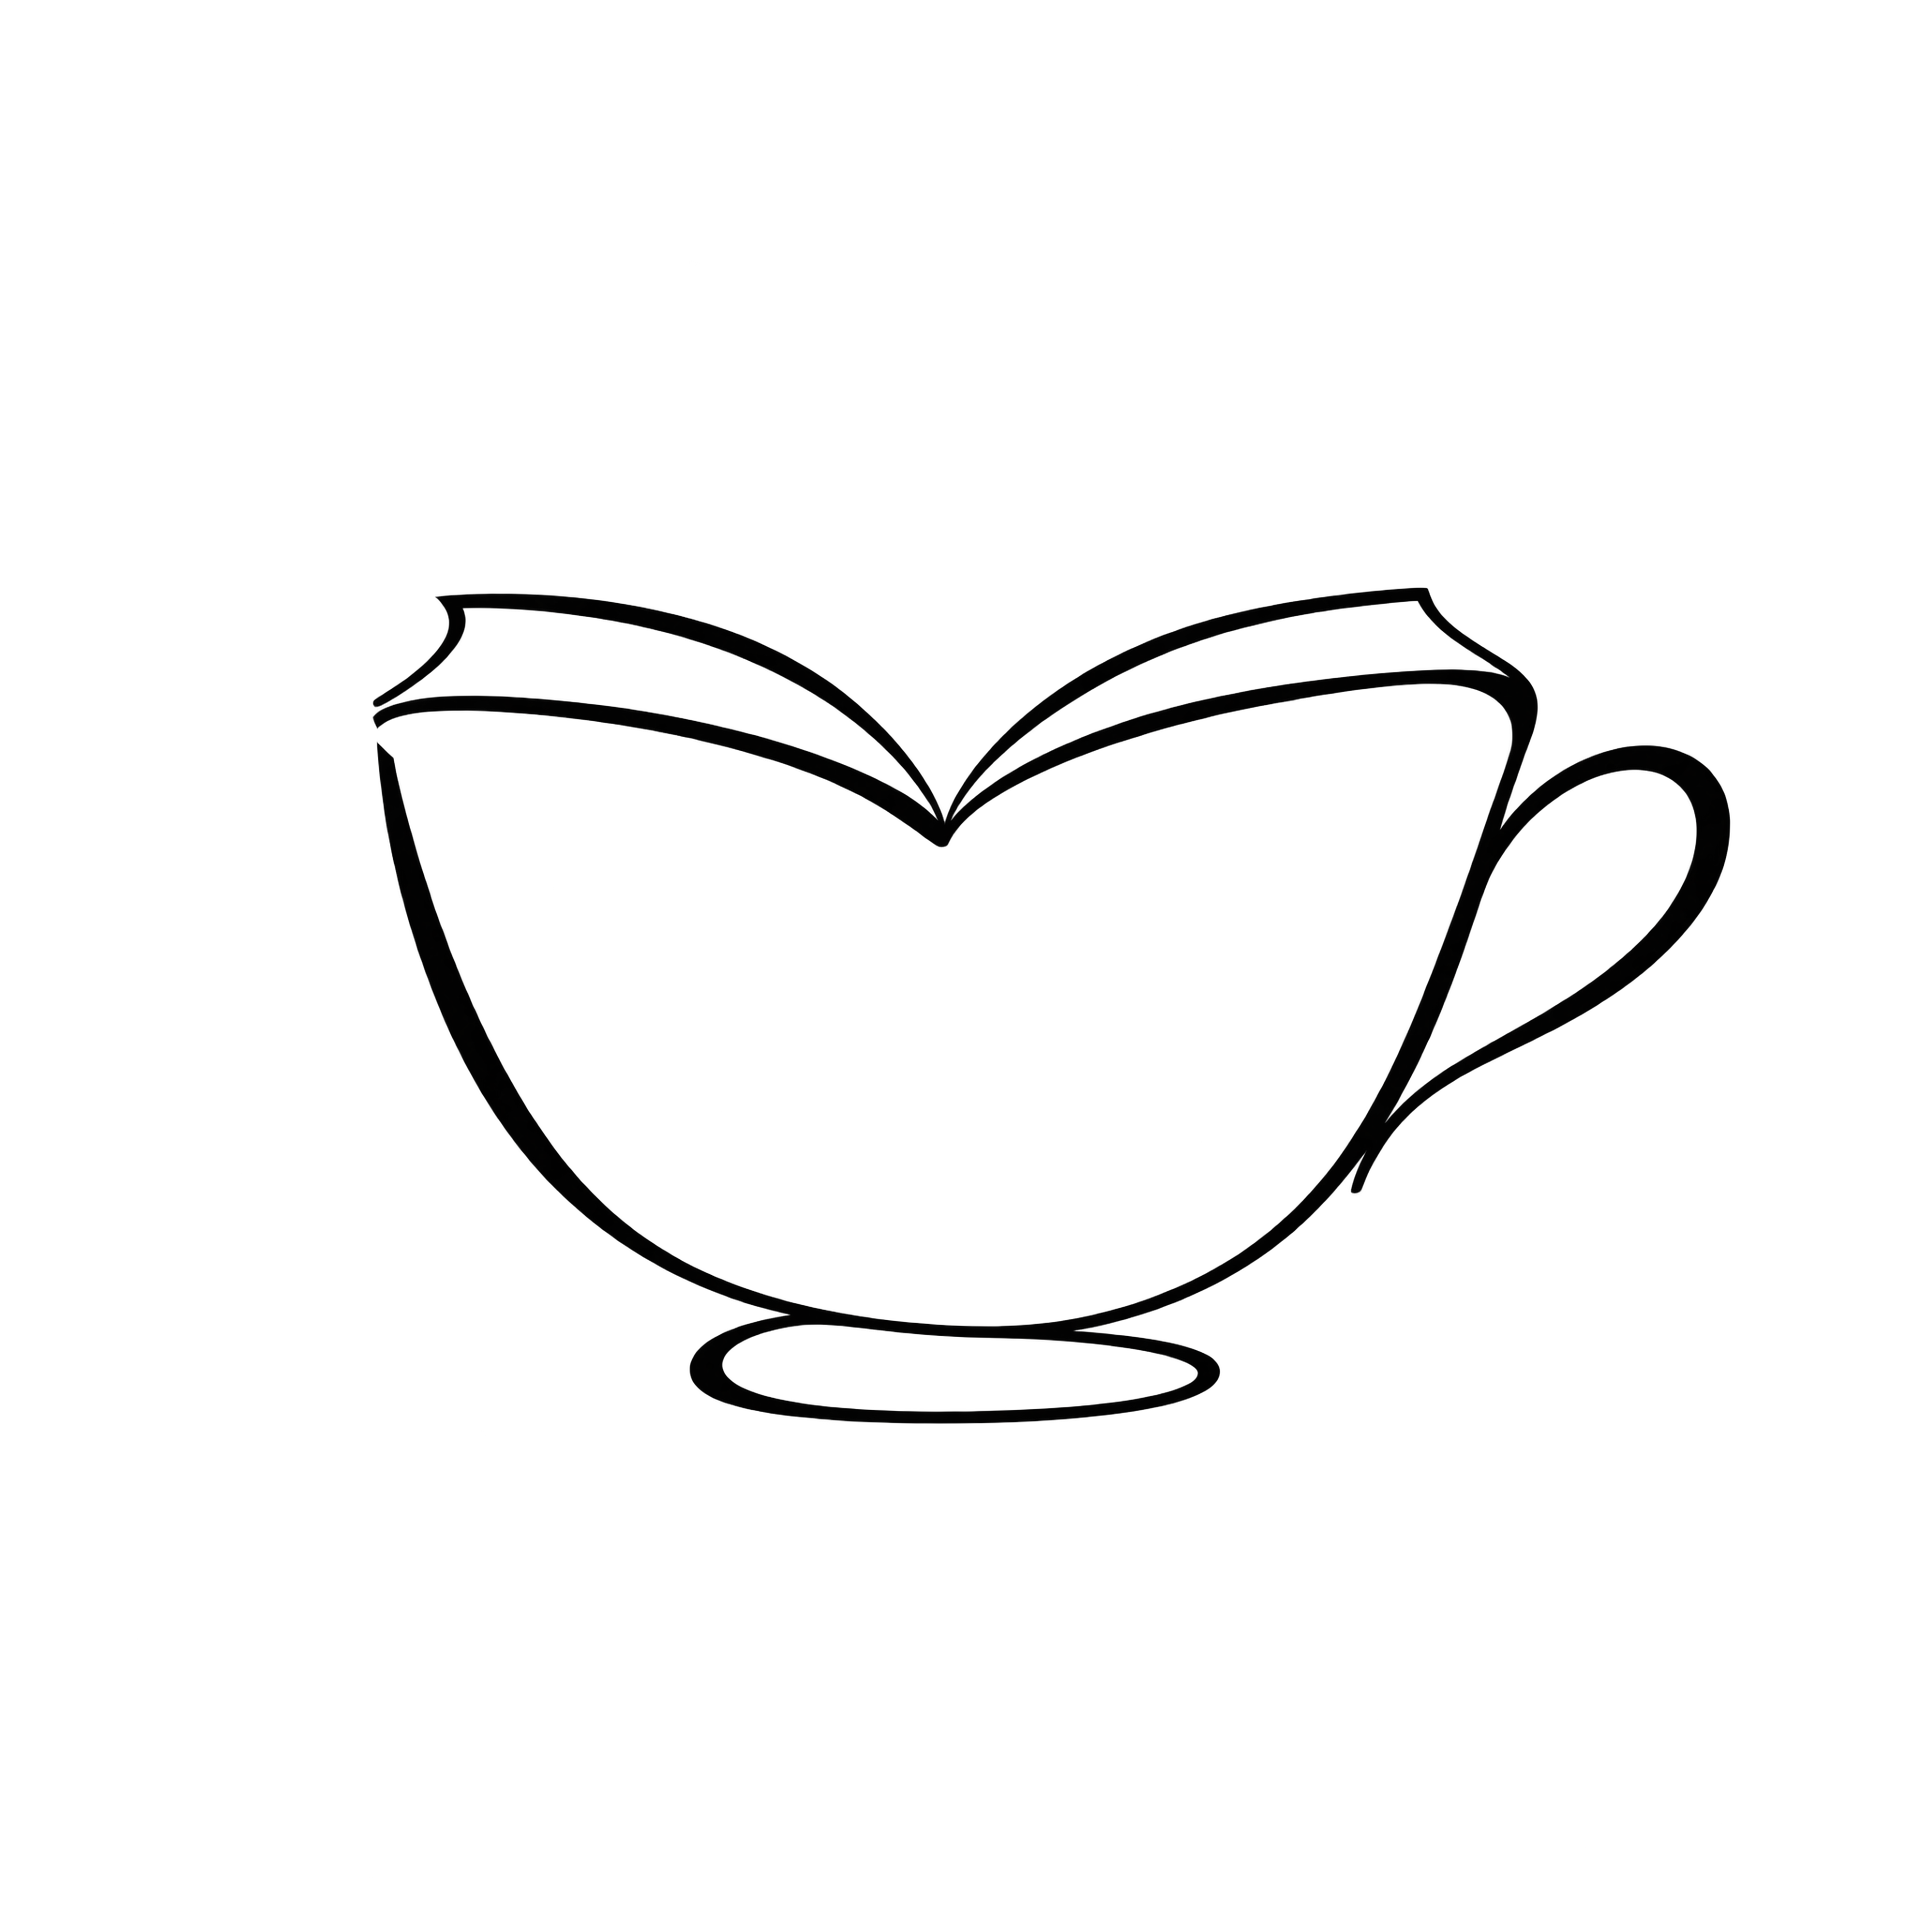
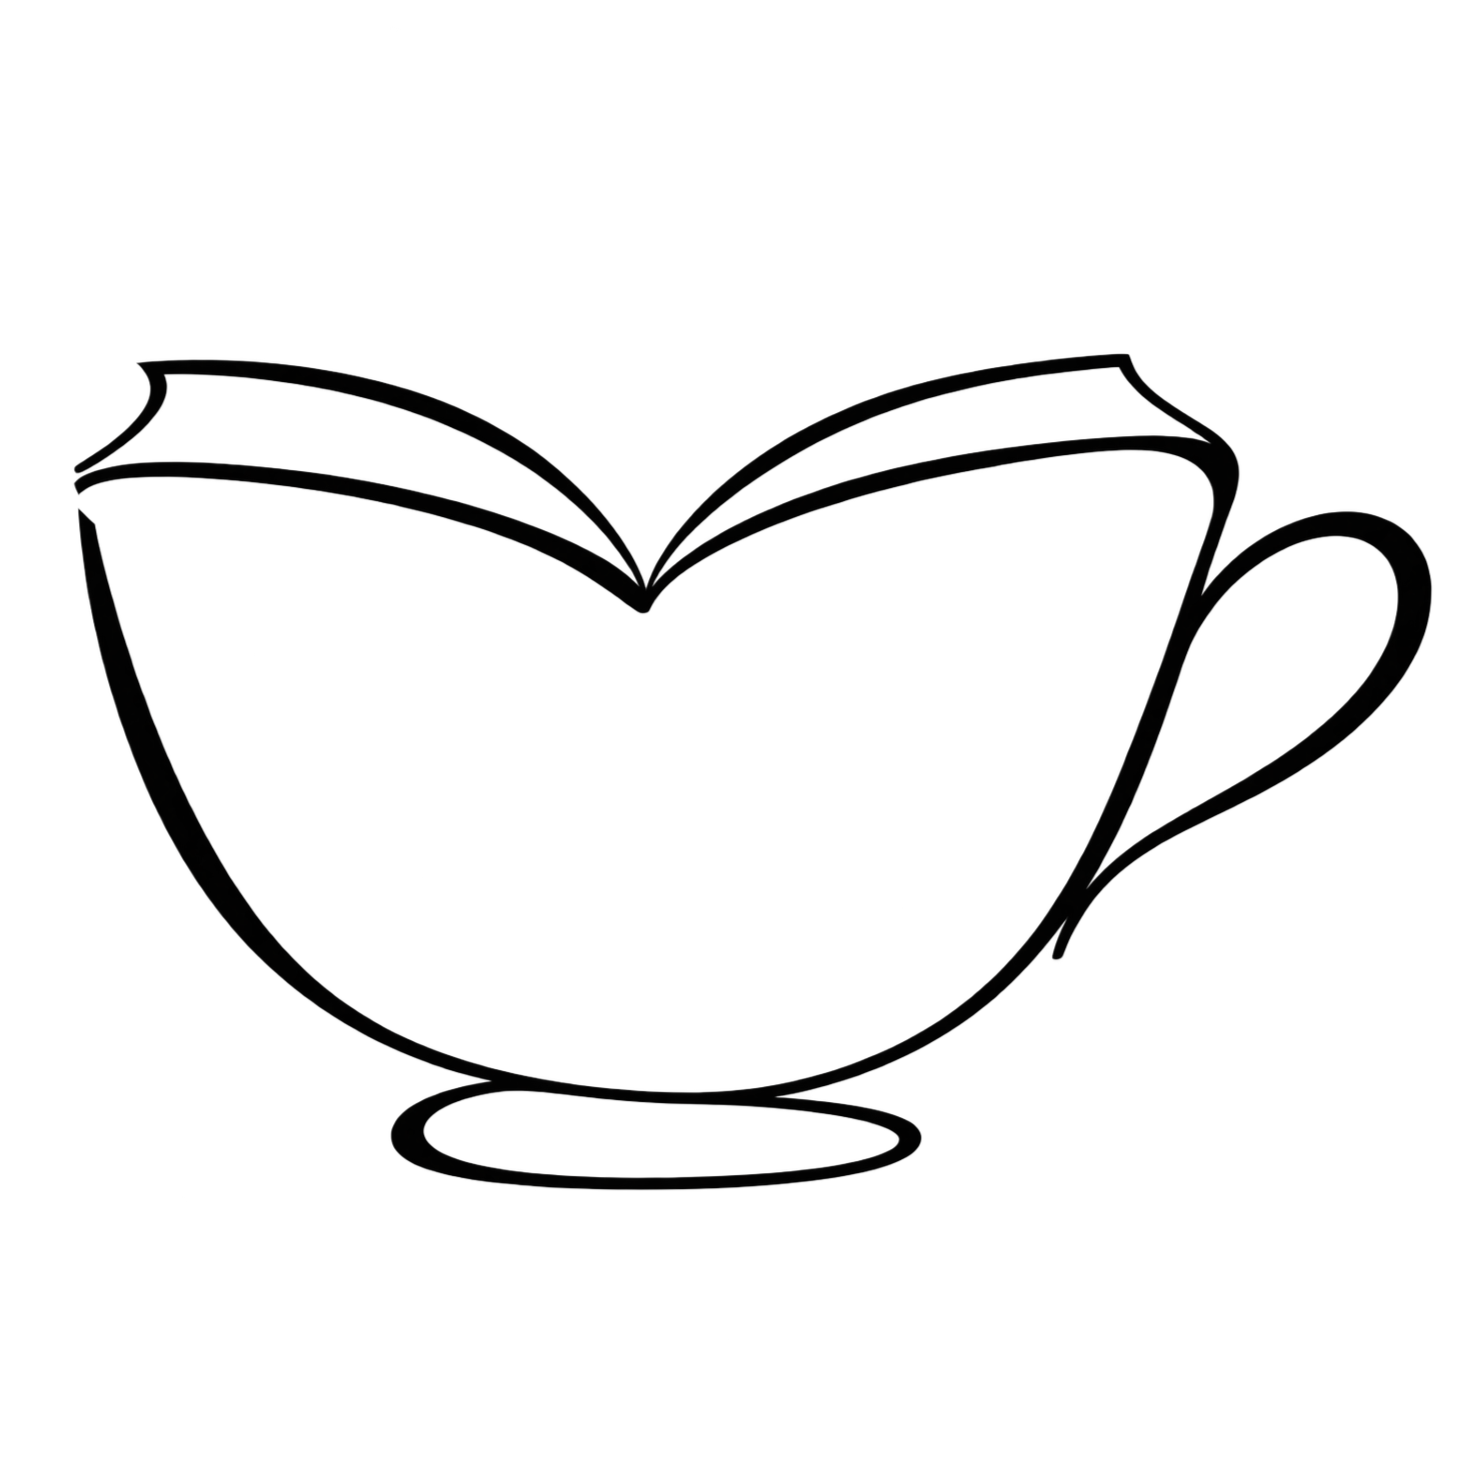
update home view

Changed region(s): [[0.0307, 0.2149, 0.9823, 0.8288]]

diff --git a/src/pages/CupStoriesHome.jsx b/src/pages/CupStoriesHome.jsx
@@ -1,8 +1,119 @@
+import { useState, useEffect } from 'react';
+import { Link } from 'react-router-dom';
+import axios from 'axios';
+import { useStory } from '../contexts/StoryContext';
+import Loader from '../components/Loader';
 
 export default function CupStoriesHome() {
+
+  const { loading, setLoading, error, setError } = useStory();
+  // const [randoRequested, setRandoRequested] = useState(false);
+  const [randoStory, setRandoStory] = useState('');
+  const endpoint = import.meta.env.VITE_API_BASE_URL;
+
+  function getRandoStory() {
+
+    setLoading(true);
+
+    axios.get(endpoint + '/stories/random')
+      .then((res) => {
+        setRandoStory(res.data.results);
+      })
+      .catch((err) => {
+        console.log(err.response);
+        const status = err.response?.status;
+
+        if (status === 404) {
+          setError('Story not found.');
+        } else if (status === 500) {
+          setError('Internal server error. Try again later.');
+        } else if (!err.response) {
+          console.log(err);
+          setError('Network error. Try again later.');
+        } else {
+          setError(err.response?.data.message || 'Sorry, something went wrong.');
+        }
+      })
+      .finally(() => {
+        setLoading(false);
+      })
+  }
+
+  useEffect(() => {
+    setRandoStory();
+    getRandoStory();
+  }, []);
+
   return (
     <>
-      home
+      <section id="home_hero my-5">
+        <div className="container p-4 my-3">
+          <div className="row justify-content-center align-items-center">
+            <img src="/cup-stories.png" alt="cup stories logo: a mix of an open book and a tea cup" className="home_hero_logo col-md-10 col-lg-4" />
+            <div className="home_hero_text col-sm-12 col-md-8">
+              <h2 className="title_font fs-1 mb-4">Welcome to Cup Stories</h2>
+              <p className="muted-text fs-4">Cup Stories is an online magazine of short stories for the moments between things: a morning coffee, a quiet evening or a few minutes stolen just for yourself.</p>
+              <div className="muted-text fs-4 fst-italic d-flex flex-wrap justify-content-center align-items-center gap-1 my-3">
+                <span>Take a pause.</span>
+                <span>&nbsp;Pour yourself something warm.</span>
+                <span>&nbsp;Find a story.</span>
+              </div>
+              <div className="d-flex flex-wrap justify-content-center align-items-center gap-4 py-3">
+                <Link to="/short-stories" className="btn btn-warning fs-4 all_stories_btn">Find a story</Link>
+                <span>or</span>
+                <Link to="#" className="btn btn-outline-warning text-dark fs-4 all_issues_btn">Browse an Issue</Link>
+              </div>
+            </div>
+          </div>
+        </div>
+      </section>
+
+      <section className="home_rando_story my-5">
+        <Loader />
+
+        <div className="container p-4">
+          <div className="row">
+
+            <div className="col col-12 text-center mb-3">
+              <h2 className="title_font fs-1 mb-4">
+                A taste of unexpected
+              </h2>
+              <div className="d-flex gap-3 flex-wrap justify-content-center align-items-start muted-text fs-4">
+                <span>Not sure what to read next? &nbsp; Try this serve or pick another</span>
+              </div>
+            </div>
+
+            <div className="col col-12 d-flex flex-wrap gap-5 justify-content-center align-items-start">
+
+              <div className="col col-12 col-lg-4">
+                {randoStory?.cover_img &&
+                  <img src={randoStory.cover_img} alt="story cover image" className="rando_story_img img-fluid w-100" />
+                }
+              </div>
+
+              <div className="col col-12 col-lg-7">
+                {(randoStory?.incipit && randoStory?.slug) &&
+                  <>
+                    <p className="rando_story_incipit fs-4 ">{randoStory.incipit}</p>
+                    <div className="d-flex flex-wrap gap-3 justify-content-between align-items-start">
+                      <Link to={`/short-stories/${randoStory.slug}`} className="btn btn-outline-warning text-dark keep_reading_btn">KEEP READING</Link>
+                      <button onClick={() => getRandoStory()} className="rando_story_btn btn btn-warning text-dark d-flex gap-2 align-items-center align-self-end get_random_story_btn">
+                        <i className="bi bi-shuffle"></i> PICK
+                      </button>
+                    </div>
+                  </>
+                }
+              </div>
+
+            </div>
+
+          </div>
+
+        </div>
+
+
+      </section >
+
     </>
   )
 }

diff --git a/src/index.css b/src/index.css
@@ -17,7 +17,7 @@
   /* default fallback */
   --issue-color-light: #ffc10755;
   --black: #000000;
-  --light-color: #f8f9fa;
+  --light-color: #f0f8ff;
   --gray: #575757;
 
   --issue-image: none;
@@ -32,6 +32,7 @@
   flex-direction: column;
   min-height: 100vh;
 }
+
 
 main {
   flex-grow: 1;
@@ -78,7 +79,7 @@ header {
   h1 {
     font-size: 3rem;
   }
-  
+
   .header_logo_container {
     /* background-color: red; */
     flex-shrink: 0;
@@ -90,6 +91,37 @@ header {
       aspect-ratio: 1/1;
     }
   }
+}
+
+.home_hero {
+  gap: 2rem;
+  width: 100%;
+  
+}
+
+.home_hero_logo {
+  /* width: 300px; */
+  aspect-ratio: 1/1;
+}
+
+.home_hero_text {
+  text-align: center;  
+  padding: 0 2rem;
+}
+
+.separator_scroll_down {
+  color: var(--accent-color);
+  font-size: 2rem;
+}
+
+.keep_reading_btn,
+.rando_story_btn {
+  width: max-content;
+}
+
+.all_issues_btn,
+.all_stories_btn {
+  width: max-content;
 }
 
 .story_tags,
@@ -191,7 +223,7 @@ header {
       padding-top: 0.25rem;
       padding-bottom: 0.75rem;
       border-radius: 0 0 50px 50px;
-      box-shadow: 1px 1px 20px 2px rgba(255, 255, 255, 0.5);      
+      box-shadow: 1px 1px 20px 2px rgba(255, 255, 255, 0.5);
     }
 
     .issue_number {
